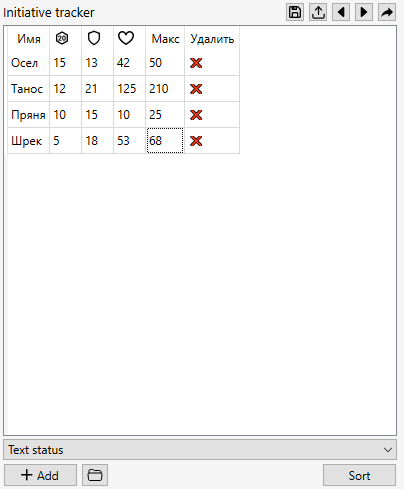
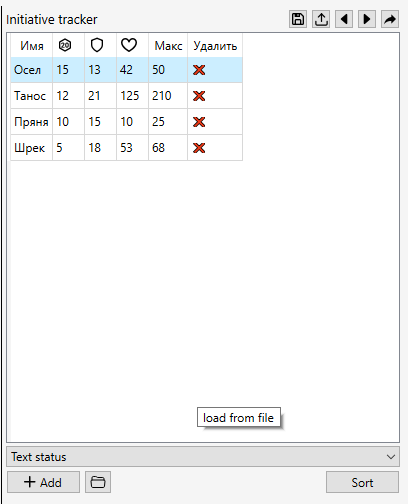
В README.md описан туториал по трекеру

Changed region(s): [[0.0, 0.0, 1.0, 1.0]]

diff --git a/README.md b/README.md
@@ -6,7 +6,7 @@
 Постепенно проект обрастал новыми функциями, в итоге вылившись в более удобный, современный и интуитивно-понятный аналог
 DM helper.
 
-![img.png](illustrations/img.png)
+![img.png](illustrations/main-screen.png)
 
 # Поддержка
 - Windows 10
@@ -16,11 +16,11 @@ DM helper.
 Перейдите на страницу [релизов](https://github.com/Technohamster-py/dm-assist/releases), выберите нужную версию 
 (рекомендуется последний стабильный), скачайте установщик / портативный zip архив (для windows) или tar.gz архив (linux) 
 
-## Туториал:
-### Настройки
+# Туториал:
+## Настройки
 Настройки можно открыть через паннель меню ```Кампания -> Настройки``` или использовав шорткат ```ctrl+alt+s```
 
-#### Общие
+### Общие
 ![settings-common.png](illustrations/settings-common.png)
 - **Язык** определяет локализацию приложения. Из коробки доступны русская и английская версии.
 [Как добавить новую локализацию](https://github.com/Technohamster-py/dm-assist/wiki/%D0%A1%D0%BE%D0%B7%D0%B4%D0%B0%D0%BD%D0%B8%D0%B5-%D0%BD%D0%BE%D0%B2%D0%BE%D0%B9-%D0%BB%D0%BE%D0%BA%D0%B0%D0%BB%D0%B8%D0%B7%D0%B0%D1%86%D0%B8%D0%B8)
@@ -29,19 +29,19 @@ DM helper.
 транслировать музыку при онлайн-игре.
 - **Рабочая папка** определяет, в какой папке будут храниться временные файлы, необходимые для работы программы.
 
-#### Внешний вид
+### Внешний вид
 ![settings-appearance.png](illustrations/settings-appearance.png)
 - **Тема** определяет тему приложения. По нажатию кнопки _обзор_ можно выбрать новую, не предустановленную тему в формате 
 файла xml. Файл будет скопирован в папку программы и в дальнейшем тема будет доступна из меню настроек.
 
-#### Трекер инициативы
+### Трекер инициативы
 ![settings-tracker.png](illustrations/settings-tracker.png)
 - **Поля в совместном доступе** - определяет, какие поля трекера будут показаны в окне, предназначенном для игроков.
 [подробнее](#совместный-доступ).
 - **Режим отображения хитов** - определяет, как будет отображаться здоровье персонажей в окне, предназначенном для игроков
 [подробнее](#режимы-отображения-hp)
 
-### Музыка
+## Музыка
 Нажмите ▶ чтобы запустить проигрывание. Так же можно использовать шорткат ```ctrl + номер_плейлиста```. Номер для 
 удобства указан слева от названия плейлиста.
 
@@ -57,23 +57,56 @@ DM helper.
 
 ![img.png](playlist-edit.png)
 
-### Трекер инициативы
-![tracker.png](illustrations/tracker.png)
+## Трекер инициативы
+<img src="illustrations/tracker.png" width="400">
 
-#### Совместный доступ
-#### Режимы отображения HP
-### Карта
-### Кампании
-### Редактор персонажей
 
-## Планируемые функции и поддерживаемые игровые системы
-### D&D 5e
+Описание столбцов:
+- Активный в данный момент персонаж подсвечиваются.
+- <img src="static/d20.svg" width="20"> - столбец инициативы
+- <img src="static/shield.svg" width="20"> - столбец класса брони
+- <img src="static/heart.svg" width="20"> - столбец текущего здоровья
+
+В столбец текущего здоровья для удобства подстчета можно вводить простые арифметические выражения, которые будут
+вычисляться после снятия фокуса с ячейки
+
+![evaluation.png](illustrations/evaluation.png) -> ![img.png](illustrations/evaluation-complete.png)
+
+Контроль:
+- Нажмите <img src="static/forward.svg" width="20"> или <img src="static/back.svg" width="20"> чтобы переходить к следующему или предыдущему персонажу.
+- Нажмите <img src="static/save.svg" width="20"> чтобы сохранить текущий энкаунтер в xml файл
+- Нажмите <img src="static/upload.svg" width="20"> чтобы открыть энкаунтер из файла **_со сбросом текущего_**
+- Нажмите **sort** для того, чтобы отсортировать персонажей по инициативе
+- Нажмите **Add** для добавления нового персонажа и энкаунтер
+- Нажмите <img src="static/folder.svg" width="20"> для **_добавления к текущему_** энкаунтеру заранее сохраненный энкаунтер
+- Используя выпадающий список можно настраивать режим отображения здоровья в общем окне.
+- Нажмите <img src="static/share.svg" width="20"> для открытия окна общего доступа
+
+### Совместный доступ
+Нажмите <img src="static/share.svg" width="20"> для открытия окна общего доступа
+
+<img src="illustrations/shared-tracker-standard.png">
+
+Это всплывающий виджет для демонстрации трекера игрокам. Здесь можно настраивать видимость каждого из столбцов.
+
+### Режимы отображения HP
+В окне общего доступа можно настраивать режимы отображения здоровья
+- Цифровой (классический)
+- Текстовый статус (Хорошо / плохо / мертв)
+- Прогрессбар (пока недоступен)
+
+## Карта
+## Кампании
+## Редактор персонажей
+
+# Планируемые функции и поддерживаемые игровые системы
+## D&D 5e
 - Хранилище персонажей
 - - Быстрое поднятие уровня для персонажей (сразу предлагается выбор того, что добавляется на новом уровне)
   - Возможность делать персонажа с мультиклассом
-### D&D 2024
-### Call of Cthulhu
-### Cyberpunk (RED, 2020)
-### World of Darkness (MtA, VtM etc.)
-### Pathfinder
-### Starfinder
+## D&D 2024
+## Call of Cthulhu
+## Cyberpunk (RED, 2020)
+## World of Darkness (MtA, VtM etc.)
+## Pathfinder
+## Starfinder
